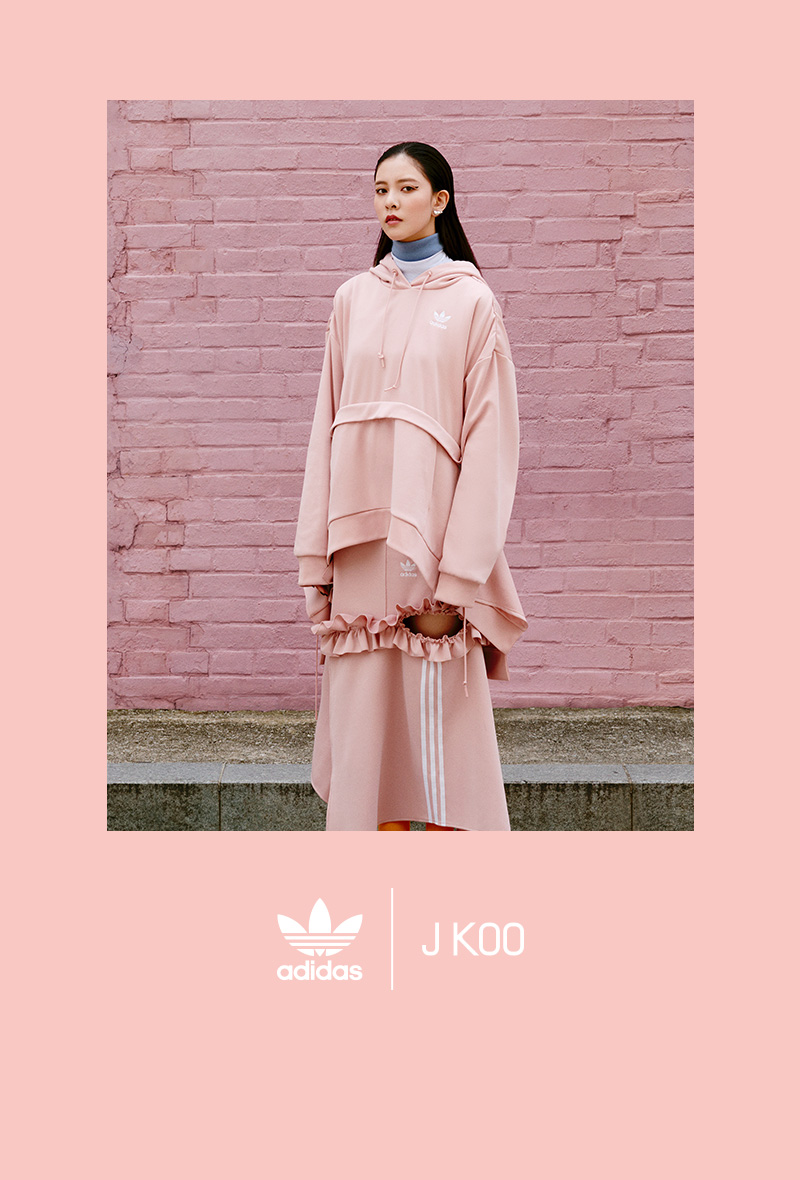
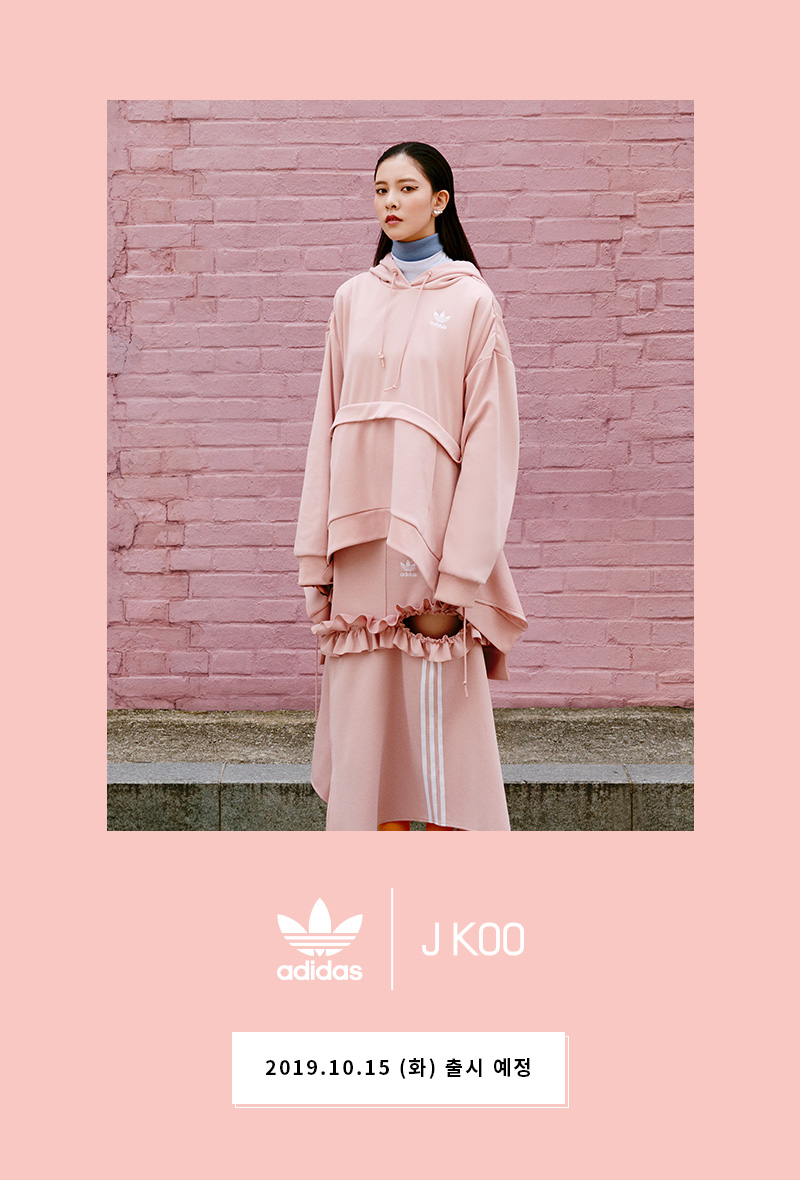
adi_CP_제이쿠

Changed region(s): [[0.2812, 0.8542, 0.7188, 0.9458]]

diff --git a/mobile/html/adidas/2019/event/originals/jkoo/build/index.html b/mobile/html/adidas/2019/event/originals/jkoo/build/index.html
@@ -438,7 +438,7 @@
        </div>
 
        <div id="container">
-<style type="text/css">@media screen and (max-width: 320px){html{font-size:10px}}@media screen and (min-width: 800px){html{font-size:12px}}.pseudo-element{content:'';display:block}#jkoo{font:500 .9rem/38px 'NotoSansKR'}#jkoo .button_area_v2{display:inline-block}#jkoo .button_area_v2 a{font:700 .9rem/32px 'NotoSansKR';padding:0 5vw;letter-spacing:0;height:36px}#jkoo .button_area_v2 a .arrow{width:20px}#jkoo .button_area_v2 a .arrow::after{width:8px}#jkoo .button_area_v2 a .arrow::before{width:8px}#jkoo img{width:100%}#jkoo .rel{position:relative}#jkoo .main .wrap{position:absolute;top:0;left:50%;transform:translateX(-50%);padding-top:128%}#jkoo .section .wrap{position:absolute;top:0;left:50%;transform:translateX(-50%);padding-top:191%}#jkoo .slide{position:relative;padding:0 0 5rem 0}#jkoo .slide .banner_slider_wrap #slider_owl .owl-controls{text-align:center}#jkoo .slide .banner_slider_wrap #slider_owl .owl-controls .owl-dots .owl-dot{width:7px;height:7px;border:1px solid #000;border-radius:50%;display:inline-block;margin:3px}#jkoo .slide .banner_slider_wrap #slider_owl .owl-controls .owl-dots .owl-dot.active{background:#000}#jkoo .slide .wrap{text-align:center}
+<style type="text/css">@media screen and (max-width: 320px){html{font-size:10px}}@media screen and (min-width: 800px){html{font-size:12px}}.pseudo-element{content:'';display:block}#jkoo{font:500 .9rem/38px 'NotoSansKR'}#jkoo .button_area_v2{display:inline-block}#jkoo .button_area_v2 a{font:700 .9rem/32px 'NotoSansKR';padding:0 5vw;letter-spacing:0;height:36px}#jkoo .button_area_v2 a .arrow{width:20px}#jkoo .button_area_v2 a .arrow::after{width:8px}#jkoo .button_area_v2 a .arrow::before{width:8px}#jkoo img{width:100%}#jkoo .rel{position:relative}#jkoo .main a{position:absolute;text-indent:-9999px;top:87%;left:28%;width:44%;height:7.5%}#jkoo .section a{position:absolute;text-indent:-9999px;top:88%;left:27%;width:44%;height:4.5%}#jkoo .slide{position:relative}#jkoo .slide .banner_slider_wrap #slider_owl .owl-controls{text-align:center}#jkoo .slide .banner_slider_wrap #slider_owl .owl-controls .owl-dots .owl-dot{width:7px;height:7px;border:1px solid #000;border-radius:50%;display:inline-block;margin:3px}#jkoo .slide .banner_slider_wrap #slider_owl .owl-controls .owl-dots .owl-dot.active{background:#000}#jkoo .slide .rel a{position:absolute;text-indent:-9999px;top:0;left:28%;width:44%;height:41.5%}
 </style>
 
            <div id="jkoo">
@@ -446,8 +446,8 @@
                     <div class="main_img">
                         <img src="/images/adidas/2019/event/originals/jkoo/1910_a_JKOO_main_MO.jpg" alt="">
                     </div>
-                    <!-- <a href="javascript:void(0)" campaign-label="구매하기">2019.10.15 (화) 출시 예정</a> -->
-                    <div class="wrap">
+                    <a href="javascript:void(0)" campaign-label="구매하기">2019.10.15 (화) 출시 예정</a>
+                    <!-- <div class="wrap">
                         <div class="button_area_v2">
                             <div class="white">
                                 <a href="https://m.adidas.co.kr/MO/Promotion/landingPage.action?pageNo=1007&term=1">
@@ -456,14 +456,14 @@
                                 </a>
                             </div>
                         </div>
-                    </div>
+                    </div> -->
                 </div>
                 <div class="section rel">
                     <div class="section_img">
                         <img src="/images/adidas/2019/event/originals/jkoo/1910_a_JKOO_section_MO.jpg" alt="">
                     </div>
-                    <!-- <a href="javascript:void(0)" campaign-label="구매하기">2019.10.15 (화) 출시 예정</a> -->
-                    <div class="wrap">
+                    <a href="javascript:void(0)" campaign-label="구매하기">2019.10.15 (화) 출시 예정</a>
+                    <!-- <div class="wrap">
                         <div class="button_area_v2">
                             <div class="">
                                 <a href="https://m.adidas.co.kr/MO/Promotion/landingPage.action?pageNo=1007&term=1">
@@ -472,7 +472,7 @@
                                 </a>
                             </div>
                         </div>
-                    </div>
+                    </div> -->
                 </div>
                 <div class="video">
                     <div class="video_img">
@@ -521,11 +521,11 @@
 
                         </ul>
                     </div>
-                    <!-- <div class="slide_txtImg rel">
+                    <div class="slide_txtImg rel">
                         <img src="/images/adidas/2019/event/originals/jkoo/1910_a_JKOO_btmbtn_MO.jpg" alt="">
                         <a href="javascript:void(0)" campaign-label="구매하기">2019.10.15 (화) 출시 예정</a>                        
-                    </div> -->
-                    <div class="wrap">
+                    </div>
+                    <!-- <div class="wrap">
                         <div class="button_area_v2">
                             <div class="">
                                 <a href="https://m.adidas.co.kr/MO/Promotion/landingPage.action?pageNo=1007&term=1">
@@ -534,7 +534,7 @@
                                 </a>
                             </div>
                         </div>
-                    </div>
+                    </div> -->
                 </div>
 
            </div>

diff --git a/mobile/html/adidas/2019/event/originals/jkoo/1015/build/index.html b/mobile/html/adidas/2019/event/originals/jkoo/1015/build/index.html
@@ -438,14 +438,16 @@
        </div>
 
        <div id="container">
+<style type="text/css">@media screen and (max-width: 320px){html{font-size:10px}}@media screen and (min-width: 800px){html{font-size:12px}}.pseudo-element{content:'';display:block}#jkoo{font:500 .9rem/38px 'NotoSansKR'}#jkoo .button_area_v2{display:inline-block}#jkoo .button_area_v2 a{font:700 .9rem/32px 'NotoSansKR';padding:0 5vw;letter-spacing:0;height:36px}#jkoo .button_area_v2 a .arrow{width:20px}#jkoo .button_area_v2 a .arrow::after{width:8px}#jkoo .button_area_v2 a .arrow::before{width:8px}#jkoo img{width:100%}#jkoo .rel{position:relative}#jkoo .main .wrap{position:absolute;top:0;left:50%;transform:translateX(-50%);padding-top:128%}#jkoo .section .wrap{position:absolute;top:0;left:50%;transform:translateX(-50%);padding-top:191%}#jkoo .slide{position:relative;padding:0 0 5rem 0}#jkoo .slide .banner_slider_wrap #slider_owl .owl-controls{text-align:center}#jkoo .slide .banner_slider_wrap #slider_owl .owl-controls .owl-dots .owl-dot{width:7px;height:7px;border:1px solid #000;border-radius:50%;display:inline-block;margin:3px}#jkoo .slide .banner_slider_wrap #slider_owl .owl-controls .owl-dots .owl-dot.active{background:#000}#jkoo .slide .wrap{text-align:center}
+</style>
 
            <div id="jkoo">
                 <div class="main rel">
                     <div class="main_img">
-                        <img src="/images/adidas/2019/event/originals/jkoo/1910_a_JKOO_main_MO.jpg" alt="">
+                        <img src="/images/adidas/2019/event/originals/jkoo/1015/1910_a_JKOO_main_MO.jpg" alt="">
                     </div>
-                    <a href="javascript:void(0)" campaign-label="구매하기">2019.10.15 (화) 출시 예정</a>
-                    <!-- <div class="wrap">
+                    <!-- <a href="javascript:void(0)" campaign-label="구매하기">2019.10.15 (화) 출시 예정</a> -->
+                    <div class="wrap">
                         <div class="button_area_v2">
                             <div class="white">
                                 <a href="https://m.adidas.co.kr/MO/Promotion/landingPage.action?pageNo=1007&term=1">
@@ -454,14 +456,14 @@
                                 </a>
                             </div>
                         </div>
-                    </div> -->
+                    </div>
                 </div>
                 <div class="section rel">
                     <div class="section_img">
-                        <img src="/images/adidas/2019/event/originals/jkoo/1910_a_JKOO_section_MO.jpg" alt="">
+                        <img src="/images/adidas/2019/event/originals/jkoo/1015/1910_a_JKOO_section_MO.jpg" alt="">
                     </div>
-                    <a href="javascript:void(0)" campaign-label="구매하기">2019.10.15 (화) 출시 예정</a>
-                    <!-- <div class="wrap">
+                    <!-- <a href="javascript:void(0)" campaign-label="구매하기">2019.10.15 (화) 출시 예정</a> -->
+                    <div class="wrap">
                         <div class="button_area_v2">
                             <div class="">
                                 <a href="https://m.adidas.co.kr/MO/Promotion/landingPage.action?pageNo=1007&term=1">
@@ -470,7 +472,7 @@
                                 </a>
                             </div>
                         </div>
-                    </div> -->
+                    </div>
                 </div>
                 <div class="video">
                     <div class="video_img">
@@ -519,11 +521,11 @@
 
                         </ul>
                     </div>
-                    <div class="slide_txtImg rel">
+                    <!-- <div class="slide_txtImg rel">
                         <img src="/images/adidas/2019/event/originals/jkoo/1910_a_JKOO_btmbtn_MO.jpg" alt="">
                         <a href="javascript:void(0)" campaign-label="구매하기">2019.10.15 (화) 출시 예정</a>                        
-                    </div>
-                    <!-- <div class="wrap">
+                    </div> -->
+                    <div class="wrap">
                         <div class="button_area_v2">
                             <div class="">
                                 <a href="https://m.adidas.co.kr/MO/Promotion/landingPage.action?pageNo=1007&term=1">
@@ -532,7 +534,7 @@
                                 </a>
                             </div>
                         </div>
-                    </div> -->
+                    </div>
                 </div>
 
            </div>

diff --git a/mobile/html/adidas/2019/event/originals/jkoo/1015/index.html b/mobile/html/adidas/2019/event/originals/jkoo/1015/index.html
@@ -442,10 +442,10 @@
            <div id="jkoo">
                 <div class="main rel">
                     <div class="main_img">
-                        <img src="/images/adidas/2019/event/originals/jkoo/1910_a_JKOO_main_MO.jpg" alt="">
+                        <img src="/images/adidas/2019/event/originals/jkoo/1015/1910_a_JKOO_main_MO.jpg" alt="">
                     </div>
-                    <a href="javascript:void(0)" campaign-label="구매하기">2019.10.15 (화) 출시 예정</a>
-                    <!-- <div class="wrap">
+                    <!-- <a href="javascript:void(0)" campaign-label="구매하기">2019.10.15 (화) 출시 예정</a> -->
+                    <div class="wrap">
                         <div class="button_area_v2">
                             <div class="white">
                                 <a href="https://m.adidas.co.kr/MO/Promotion/landingPage.action?pageNo=1007&term=1">
@@ -454,14 +454,14 @@
                                 </a>
                             </div>
                         </div>
-                    </div> -->
+                    </div>
                 </div>
                 <div class="section rel">
                     <div class="section_img">
-                        <img src="/images/adidas/2019/event/originals/jkoo/1910_a_JKOO_section_MO.jpg" alt="">
+                        <img src="/images/adidas/2019/event/originals/jkoo/1015/1910_a_JKOO_section_MO.jpg" alt="">
                     </div>
-                    <a href="javascript:void(0)" campaign-label="구매하기">2019.10.15 (화) 출시 예정</a>
-                    <!-- <div class="wrap">
+                    <!-- <a href="javascript:void(0)" campaign-label="구매하기">2019.10.15 (화) 출시 예정</a> -->
+                    <div class="wrap">
                         <div class="button_area_v2">
                             <div class="">
                                 <a href="https://m.adidas.co.kr/MO/Promotion/landingPage.action?pageNo=1007&term=1">
@@ -470,7 +470,7 @@
                                 </a>
                             </div>
                         </div>
-                    </div> -->
+                    </div>
                 </div>
                 <div class="video">
                     <div class="video_img">
@@ -519,11 +519,11 @@
 
                         </ul>
                     </div>
-                    <div class="slide_txtImg rel">
+                    <!-- <div class="slide_txtImg rel">
                         <img src="/images/adidas/2019/event/originals/jkoo/1910_a_JKOO_btmbtn_MO.jpg" alt="">
                         <a href="javascript:void(0)" campaign-label="구매하기">2019.10.15 (화) 출시 예정</a>                        
-                    </div>
-                    <!-- <div class="wrap">
+                    </div> -->
+                    <div class="wrap">
                         <div class="button_area_v2">
                             <div class="">
                                 <a href="https://m.adidas.co.kr/MO/Promotion/landingPage.action?pageNo=1007&term=1">
@@ -532,7 +532,7 @@
                                 </a>
                             </div>
                         </div>
-                    </div> -->
+                    </div>
                 </div>
 
            </div>

diff --git a/mobile/html/adidas/2019/event/originals/jkoo/1015/index.scss b/mobile/html/adidas/2019/event/originals/jkoo/1015/index.scss
@@ -29,46 +29,47 @@
 		position: relative;
 	}
 	.main{
-		// .wrap{
-		// 	position: absolute;
-		// 	top: 0;
-		// 	left: 50%;
-		// 	transform: translateX(-50%);
-		// 	padding-top: 128%;
-		// 	.button_area_v2{
-		// 		// height: 36px;
-
-		// 	}
-		// }
-
-		a{
+		.wrap{
 			position: absolute;
-			text-indent: -9999px;
-			top: 87%;
-			left: 28%;
-			width: 44%;
-			height: 7.5%;		
+			top: 0;
+			left: 50%;
+			transform: translateX(-50%);
+			padding-top: 128%;
+			.button_area_v2{
+				// height: 36px;
+
+			}
 		}
+
+		// a{
+		// 	position: absolute;
+		// 	text-indent: -9999px;
+		// 	top: 87%;
+		// 	left: 28%;
+		// 	width: 44%;
+		// 	height: 7.5%;		
+		// }
 	}
 	.section{
-		a{
-			position: absolute;
-			text-indent: -9999px;
-			top: 88%;
-			left: 27%;
-			width: 44%;
-			height: 4.5%;
-		}
-		// .wrap{
+		// a{
 		// 	position: absolute;
-		// 	top: 0;
-		// 	left: 50%;
-		// 	transform: translateX(-50%);
-		// 	padding-top: 191%;
+		// 	text-indent: -9999px;
+		// 	top: 88%;
+		// 	left: 27%;
+		// 	width: 44%;
+		// 	height: 4.5%;
 		// }
+		.wrap{
+			position: absolute;
+			top: 0;
+			left: 50%;
+			transform: translateX(-50%);
+			padding-top: 191%;
+		}
 	}
 	.slide{
 		position: relative;
+		padding:0 0 5rem 0;
 		.banner_slider_wrap{
 			#slider_owl{
 				.owl-controls{
@@ -90,18 +91,18 @@
 				}
 			}
 		}
-		// .wrap{
-		// 	text-align: center;
-		// }
+		.wrap{
+			text-align: center;
+		}
 		.rel{
-			a{
-				position: absolute;
-				text-indent: -9999px;
-				top: 0;
-				left: 28%;
-				width: 44%;
-				height: 41.5%;
-			}
+			// a{
+			// 	position: absolute;
+			// 	text-indent: -9999px;
+			// 	top: 0;
+			// 	left: 28%;
+			// 	width: 44%;
+			// 	height: 41.5%;
+			// }
 		}
 
 	}

diff --git a/mobile/html/adidas/pn/JKOO.html b/mobile/html/adidas/pn/JKOO.html
@@ -5,7 +5,7 @@
 				   <div id="jkoo">
 						<div class="main rel">
 							<div class="main_img">
-								<img src="/images/adidas/2019/event/originals/jkoo/1910_a_JKOO_main_MO.jpg" alt="">
+								<img src="/images/adidas/2019/event/originals/jkoo/1015/1910_a_JKOO_main_MO.jpg" alt="">
 							</div>
 							<!-- <a href="javascript:void(0)" campaign-label="구매하기">2019.10.15 (화) 출시 예정</a> -->
 							<div class="wrap">
@@ -21,7 +21,7 @@
 						</div>
 						<div class="section rel">
 							<div class="section_img">
-								<img src="/images/adidas/2019/event/originals/jkoo/1910_a_JKOO_section_MO.jpg" alt="">
+								<img src="/images/adidas/2019/event/originals/jkoo/1015/1910_a_JKOO_section_MO.jpg" alt="">
 							</div>
 							<!-- <a href="javascript:void(0)" campaign-label="구매하기">2019.10.15 (화) 출시 예정</a> -->
 							<div class="wrap">
